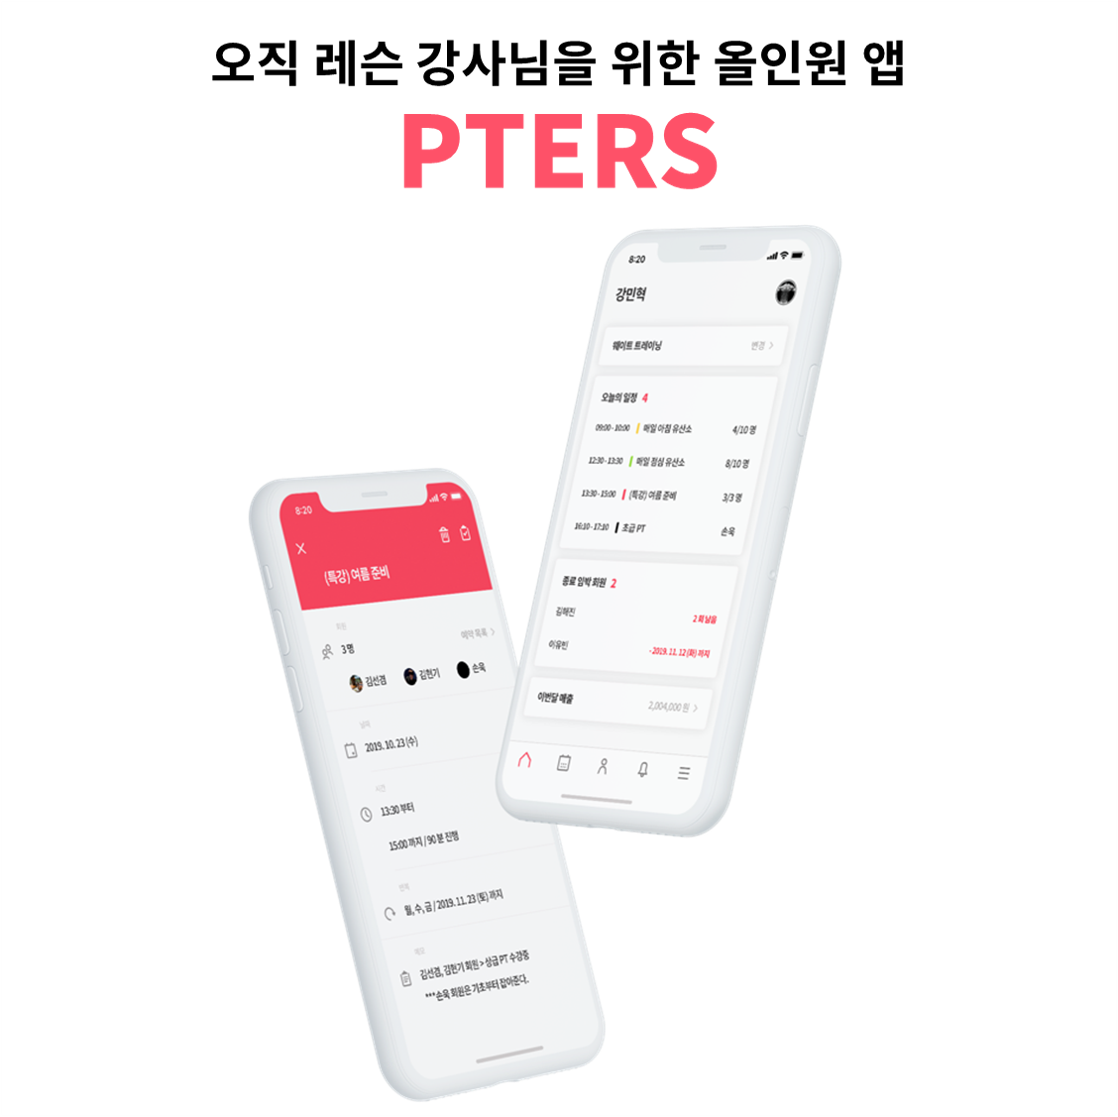
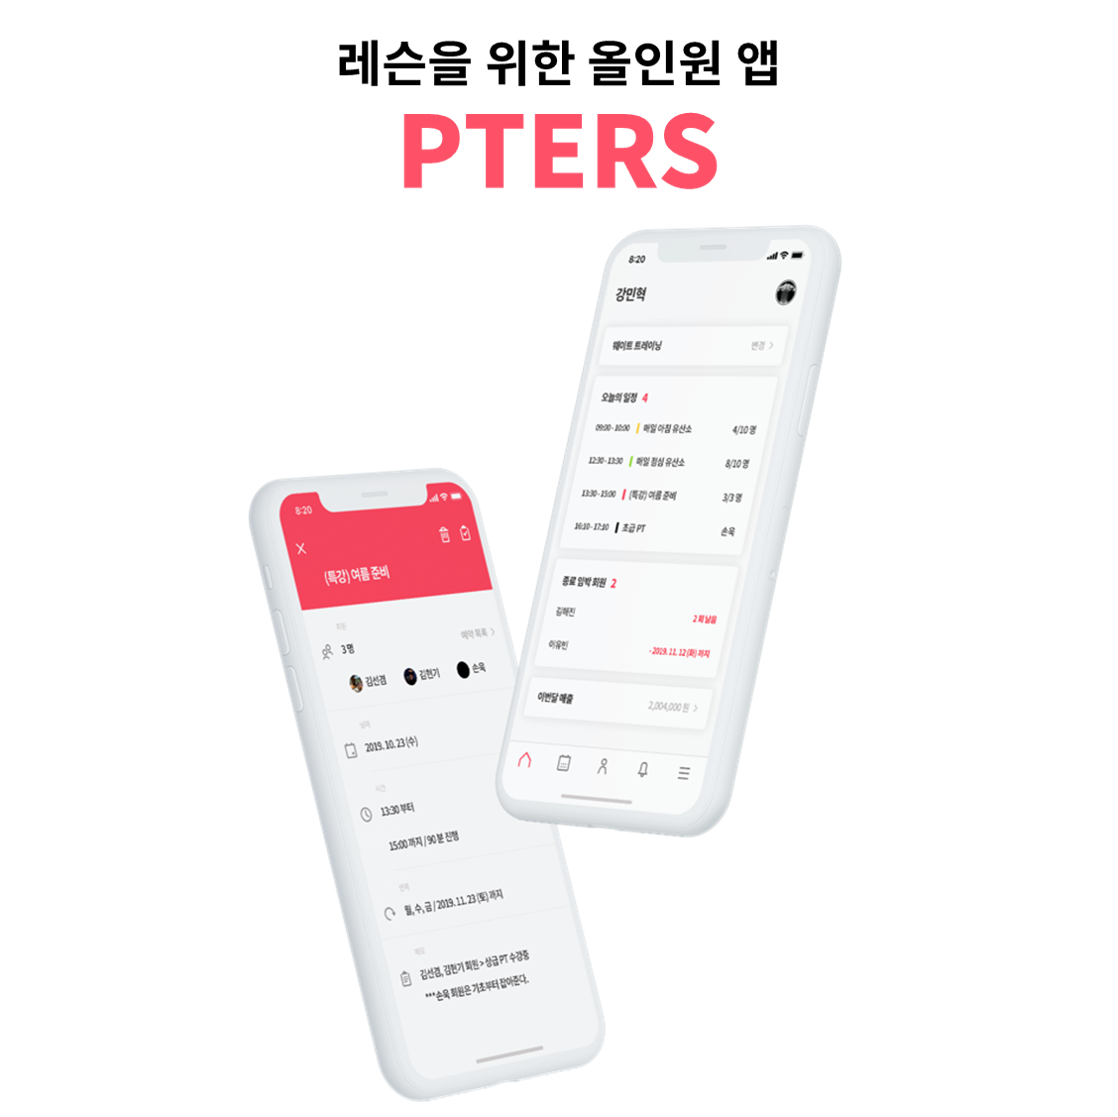
그림 문구 조정

Changed region(s): [[0.1825, 0.0304, 0.8211, 0.0913]]

diff --git a/pters_project/templates/index.html b/pters_project/templates/index.html
@@ -266,8 +266,8 @@
                 top: 0;
                 width: 100%;
                 height: 60px;
-                /* background-color: #ffffff; */
-                background-color: #fbfbfb;
+                background-color: #ffffff;
+                /* background-color: #fbfbfb; */
                 z-index: 1;
                 box-sizing: border-box;
             }
@@ -316,7 +316,7 @@
                 }
 
             #root_content{
-                background-color: #ffffff;
+                /* background-color: #ffffff; */
                 height: calc(100% - 60px);
             }
             #front_page_login{

diff --git a/pters_project/templates/for_tutee.html b/pters_project/templates/for_tutee.html
@@ -261,6 +261,7 @@
                 height: 60px;
                 background-color: #ffffff;
                 z-index: 1;
+                box-sizing: border-box;
             }
             #root_nav > div{
                 display: flex;

diff --git a/pters_project/templates/for_tutor.html b/pters_project/templates/for_tutor.html
@@ -261,6 +261,7 @@
                 height: 60px;
                 background-color: #ffffff;
                 z-index: 1;
+                box-sizing: border-box;
             }
             #root_nav > div{
                 display: flex;

diff --git a/pters_project/templates/introduce.html b/pters_project/templates/introduce.html
@@ -270,6 +270,7 @@
                 height: 60px;
                 background-color: #ffffff;
                 z-index: 1;
+                box-sizing: border-box;
             }
             #root_nav > div{
                 display: flex;
